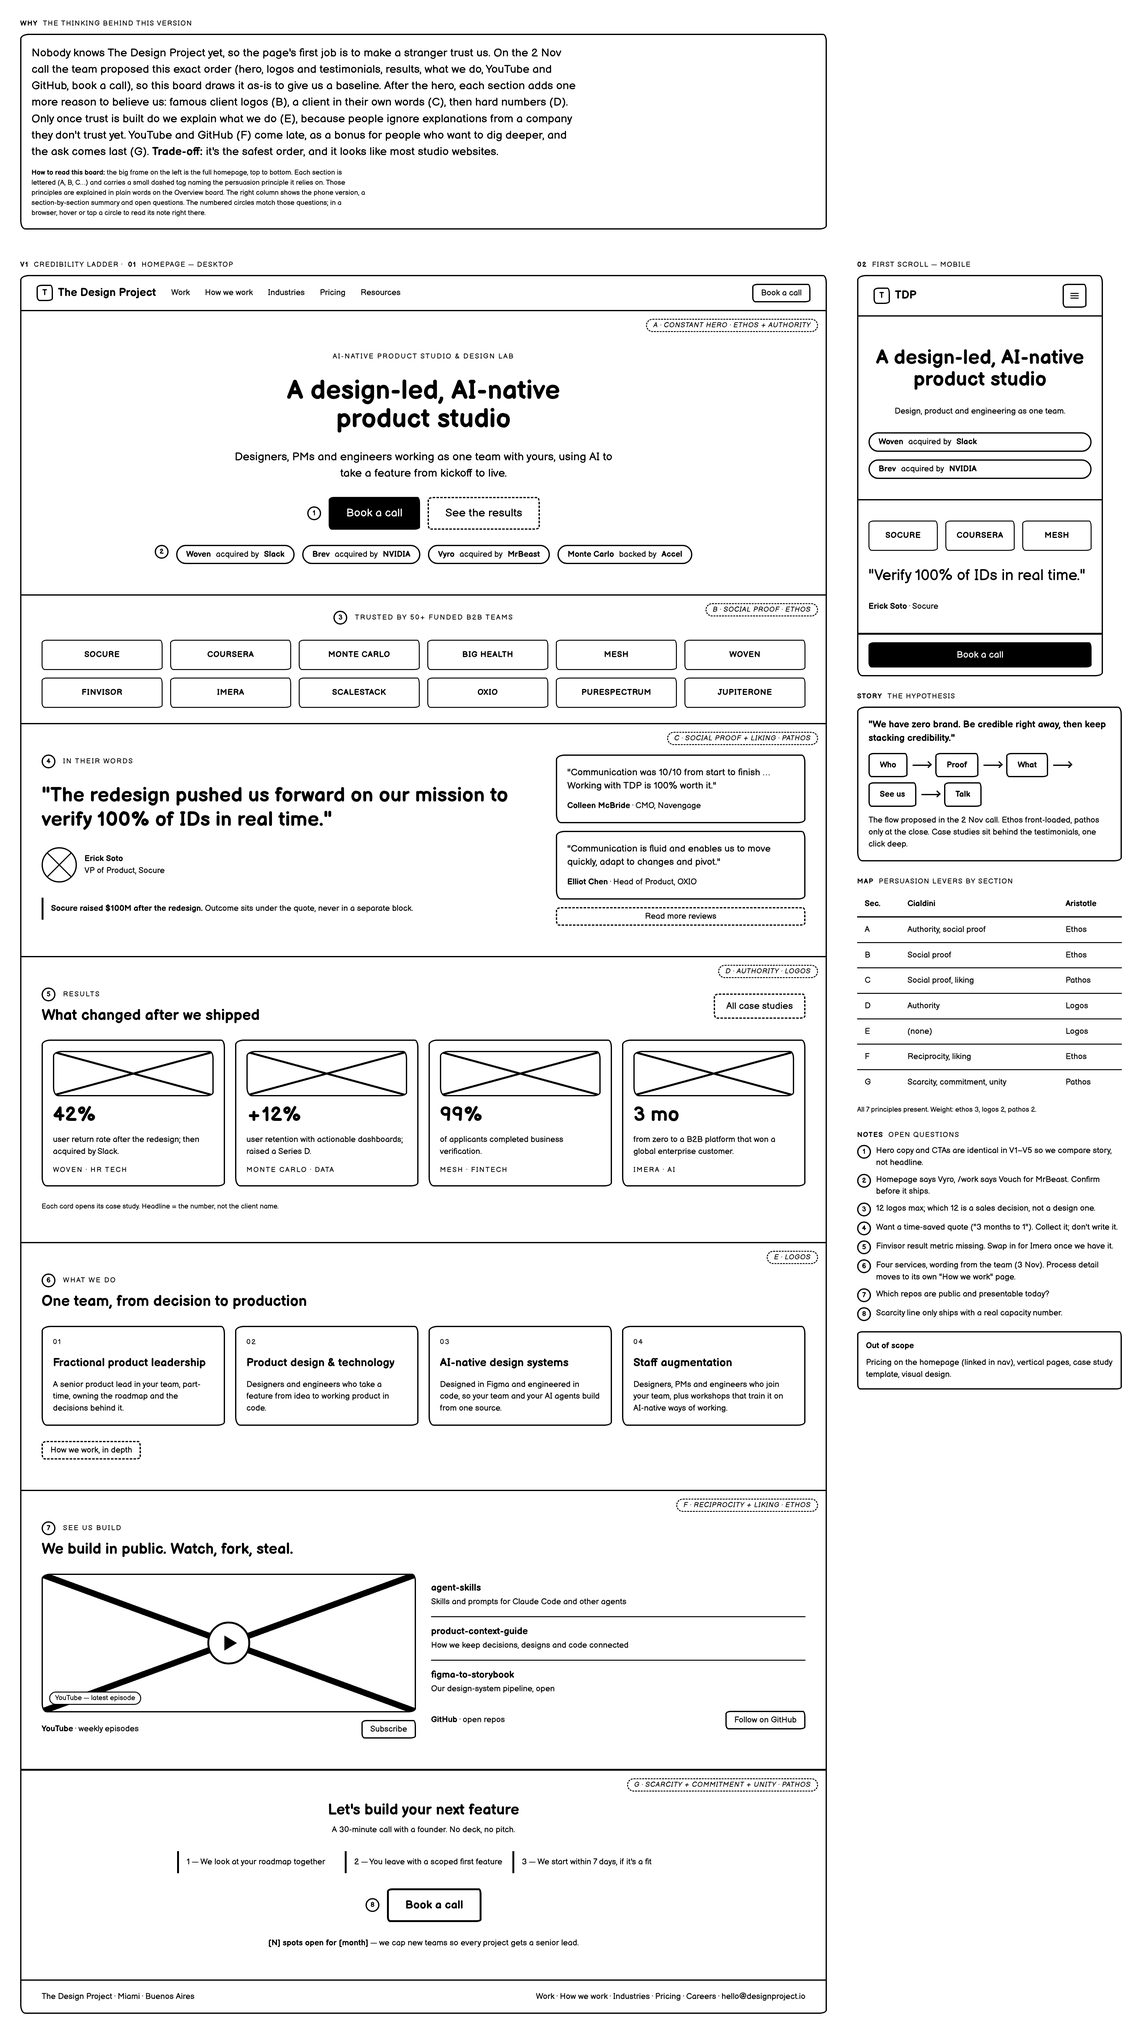
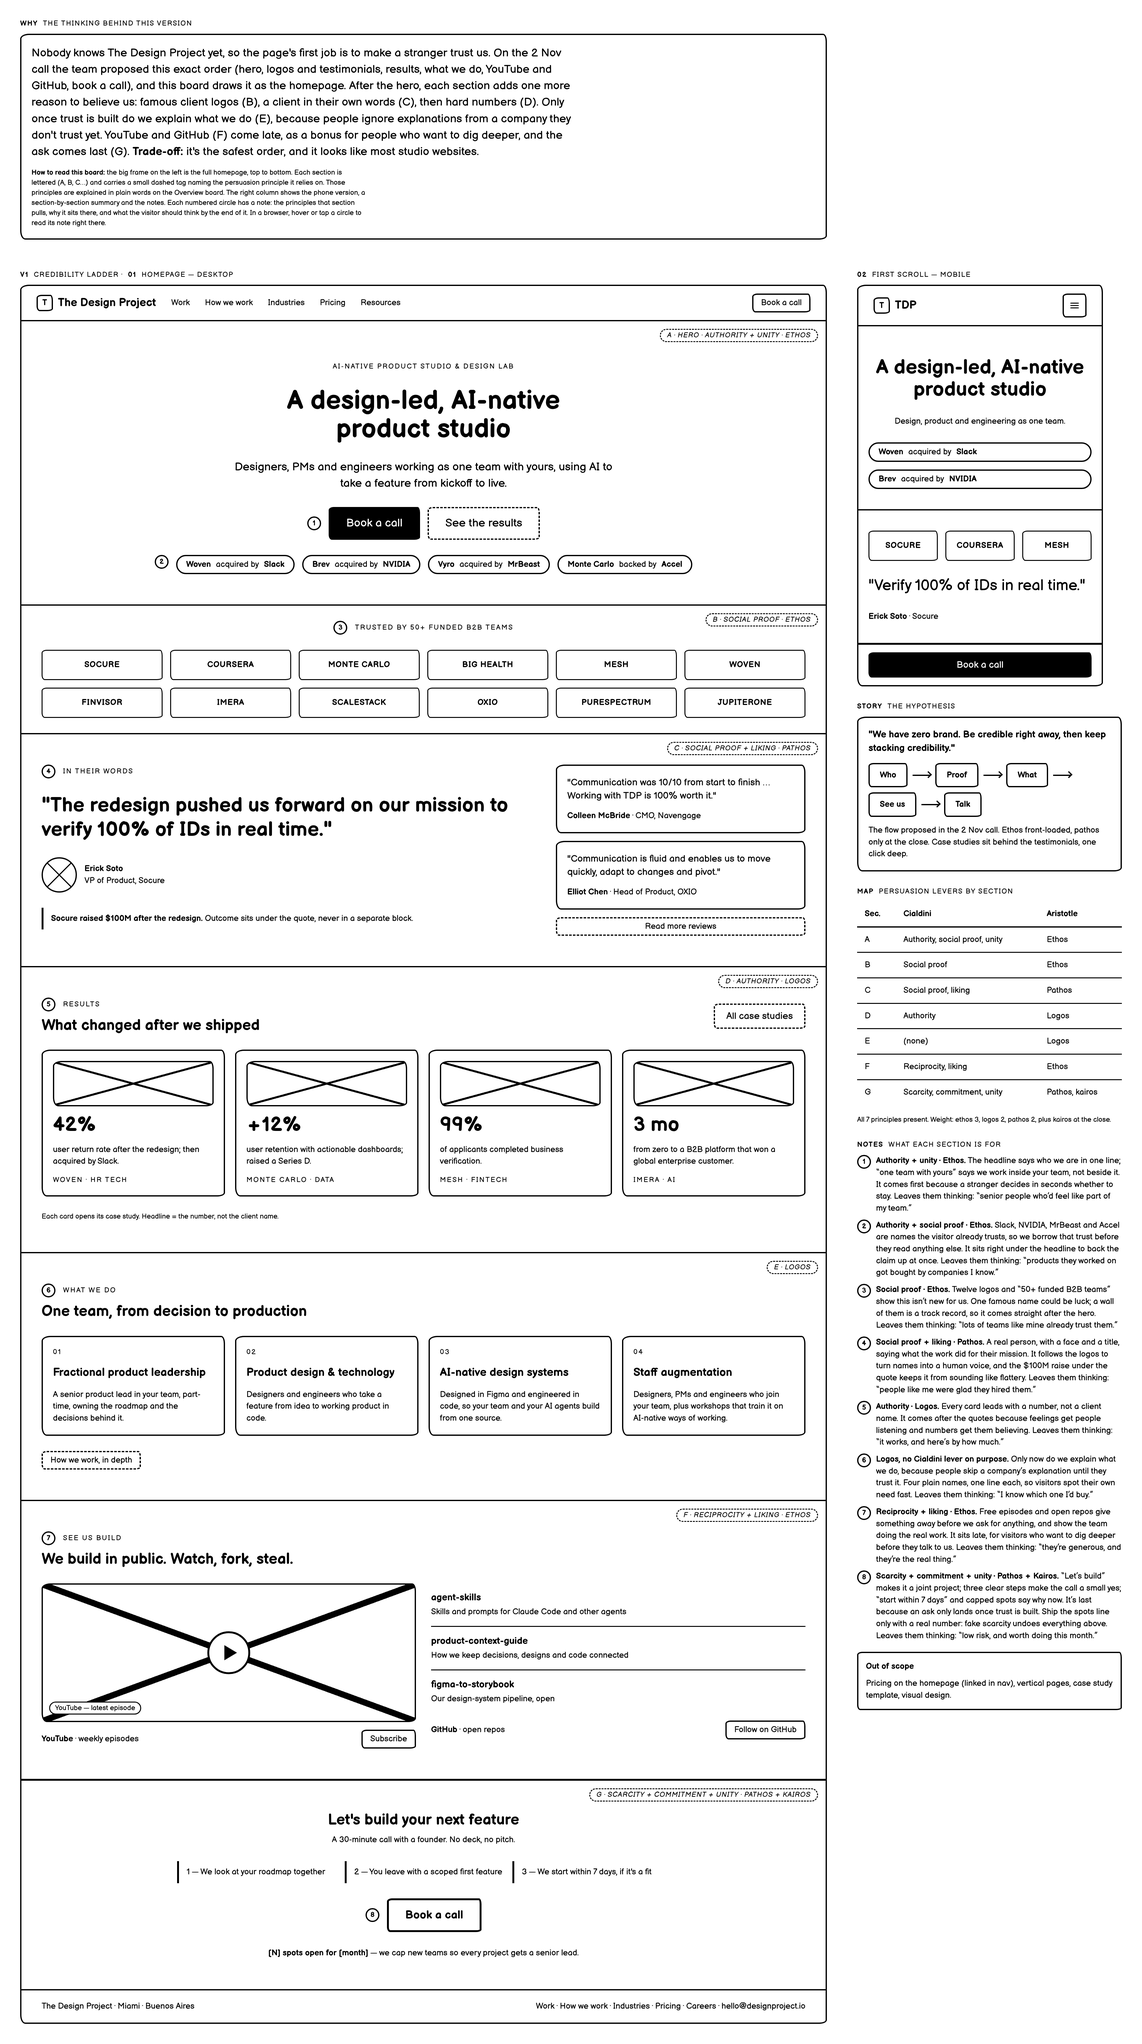
feat(wireframes): V1 notes explain what each section is for
Each numbered note now names the Cialdini principles and Aristotle modes its
section pulls, why it sits at that point in the page, and what the visitor
should think by the end of it. Drops every reference to other versions
(notes, hero tag, intro). Adds kairos to the close in the tag and map, and
widens the popover to 340px for the longer notes.

diff --git a/wireframes/designproject-io/v1-credibility-ladder.standalone.html b/wireframes/designproject-io/v1-credibility-ladder.standalone.html
@@ -545,7 +545,7 @@ small { font-size: var(--fs-xs); }
   position: fixed;
   z-index: 100;
   width: max-content;
-  max-width: min(300px, calc(100vw - 16px));
+  max-width: min(340px, calc(100vw - 16px));
   background: var(--paper);
   border: var(--stroke-bold) solid var(--ink);
   border-radius: var(--radius-sm);
@@ -725,8 +725,8 @@ small { font-size: var(--fs-xs); }
   <section class="board__intro">
     <div class="screen__caption"><b>Why</b> the thinking behind this version</div>
     <div class="card stack">
-      <p class="lead">Nobody knows The Design Project yet, so the page's first job is to make a stranger trust us. On the 2 Nov call the team proposed this exact order (hero, logos and testimonials, results, what we do, YouTube and GitHub, book a call), so this board draws it as-is to give us a baseline. After the hero, each section adds one more reason to believe us: famous client logos (B), a client in their own words (C), then hard numbers (D). Only once trust is built do we explain what we do (E), because people ignore explanations from a company they don't trust yet. YouTube and GitHub (F) come late, as a bonus for people who want to dig deeper, and the ask comes last (G). <strong>Trade-off:</strong> it's the safest order, and it looks like most studio websites.</p>
-      <p class="hint"><strong>How to read this board:</strong> the big frame on the left is the full homepage, top to bottom. Each section is lettered (A, B, C…) and carries a small dashed tag naming the persuasion principle it relies on. Those principles are explained in plain words on the Overview board. The right column shows the phone version, a section-by-section summary and open questions. The numbered circles match those questions; in a browser, hover or tap a circle to read its note right there.</p>
+      <p class="lead">Nobody knows The Design Project yet, so the page's first job is to make a stranger trust us. On the 2 Nov call the team proposed this exact order (hero, logos and testimonials, results, what we do, YouTube and GitHub, book a call), and this board draws it as the homepage. After the hero, each section adds one more reason to believe us: famous client logos (B), a client in their own words (C), then hard numbers (D). Only once trust is built do we explain what we do (E), because people ignore explanations from a company they don't trust yet. YouTube and GitHub (F) come late, as a bonus for people who want to dig deeper, and the ask comes last (G). <strong>Trade-off:</strong> it's the safest order, and it looks like most studio websites.</p>
+      <p class="hint"><strong>How to read this board:</strong> the big frame on the left is the full homepage, top to bottom. Each section is lettered (A, B, C…) and carries a small dashed tag naming the persuasion principle it relies on. Those principles are explained in plain words on the Overview board. The right column shows the phone version, a section-by-section summary and the notes. Each numbered circle has a note: the principles that section pulls, why it sits there, and what the visitor should think by the end of it. In a browser, hover or tap a circle to read its note right there.</p>
     </div>
   </section>
 
@@ -749,9 +749,9 @@ small { font-size: var(--fs-xs); }
         <a class="btn btn--sm" href="#">Book a call</a>
       </header>
 
-      <!-- A. hero (constant across all five versions) -->
+      <!-- A. hero -->
       <section class="section section--hero">
-        <span class="lens">A · Constant hero · Ethos + Authority</span>
+        <span class="lens">A · Hero · Authority + Unity · Ethos</span>
         <p class="eyebrow">AI-native product studio &amp; design lab</p>
         <h1 class="display">A design-led, AI-native product studio</h1>
         <p class="lead measure">Designers, PMs and engineers working as one team with yours, using AI to take a feature from kickoff to live.</p>
@@ -910,7 +910,7 @@ small { font-size: var(--fs-xs); }
 
       <!-- G. close -->
       <section class="section section--loud section--center">
-        <span class="lens">G · Scarcity + Commitment + Unity · Pathos</span>
+        <span class="lens">G · Scarcity + Commitment + Unity · Pathos + Kairos</span>
         <div class="section__head">
           <h2>Let's build your next feature</h2>
           <p class="muted measure">A 30-minute call with a founder. No deck, no pitch.</p>
@@ -981,29 +981,29 @@ small { font-size: var(--fs-xs); }
       <table class="table">
         <thead><tr><th>Sec.</th><th>Cialdini</th><th>Aristotle</th></tr></thead>
         <tbody>
-          <tr><td>A</td><td>Authority, social proof</td><td>Ethos</td></tr>
+          <tr><td>A</td><td>Authority, social proof, unity</td><td>Ethos</td></tr>
           <tr><td>B</td><td>Social proof</td><td>Ethos</td></tr>
           <tr><td>C</td><td>Social proof, liking</td><td>Pathos</td></tr>
           <tr><td>D</td><td>Authority</td><td>Logos</td></tr>
           <tr><td>E</td><td>(none)</td><td>Logos</td></tr>
           <tr><td>F</td><td>Reciprocity, liking</td><td>Ethos</td></tr>
-          <tr><td>G</td><td>Scarcity, commitment, unity</td><td>Pathos</td></tr>
+          <tr><td>G</td><td>Scarcity, commitment, unity</td><td>Pathos, kairos</td></tr>
         </tbody>
       </table>
-      <p class="hint mt-4">All 7 principles present. Weight: ethos 3, logos 2, pathos 2.</p>
+      <p class="hint mt-4">All 7 principles present. Weight: ethos 3, logos 2, pathos 2, plus kairos at the close.</p>
     </section>
 
     <section>
-      <div class="screen__caption"><b>Notes</b> open questions</div>
+      <div class="screen__caption"><b>Notes</b> what each section is for</div>
       <ol class="notes">
-        <li><span class="pin">1</span><span>Hero copy and CTAs are identical in V1–V5 so we compare story, not headline.</span></li>
-        <li><span class="pin">2</span><span>Homepage says Vyro, /work says Vouch for MrBeast. Confirm before it ships.</span></li>
-        <li><span class="pin">3</span><span>12 logos max; which 12 is a sales decision, not a design one.</span></li>
-        <li><span class="pin">4</span><span>Want a time-saved quote ("3 months to 1"). Collect it; don't write it.</span></li>
-        <li><span class="pin">5</span><span>Finvisor result metric missing. Swap in for Imera once we have it.</span></li>
-        <li><span class="pin">6</span><span>Four services, wording from the team (3 Nov). Process detail moves to its own "How we work" page.</span></li>
-        <li><span class="pin">7</span><span>Which repos are public and presentable today?</span></li>
-        <li><span class="pin">8</span><span>Scarcity line only ships with a real capacity number.</span></li>
+        <li><span class="pin">1</span><span><strong>Authority + unity · Ethos.</strong> The headline says who we are in one line; “one team with yours” says we work inside your team, not beside it. It comes first because a stranger decides in seconds whether to stay. Leaves them thinking: “senior people who’d feel like part of my team.”</span></li>
+        <li><span class="pin">2</span><span><strong>Authority + social proof · Ethos.</strong> Slack, NVIDIA, MrBeast and Accel are names the visitor already trusts, so we borrow that trust before they read anything else. It sits right under the headline to back the claim up at once. Leaves them thinking: “products they worked on got bought by companies I know.”</span></li>
+        <li><span class="pin">3</span><span><strong>Social proof · Ethos.</strong> Twelve logos and “50+ funded B2B teams” show this isn’t new for us. One famous name could be luck; a wall of them is a track record, so it comes straight after the hero. Leaves them thinking: “lots of teams like mine already trust them.”</span></li>
+        <li><span class="pin">4</span><span><strong>Social proof + liking · Pathos.</strong> A real person, with a face and a title, saying what the work did for their mission. It follows the logos to turn names into a human voice, and the $100M raise under the quote keeps it from sounding like flattery. Leaves them thinking: “people like me were glad they hired them.”</span></li>
+        <li><span class="pin">5</span><span><strong>Authority · Logos.</strong> Every card leads with a number, not a client name. It comes after the quotes because feelings get people listening and numbers get them believing. Leaves them thinking: “it works, and here’s by how much.”</span></li>
+        <li><span class="pin">6</span><span><strong>Logos, no Cialdini lever on purpose.</strong> Only now do we explain what we do, because people skip a company’s explanation until they trust it. Four plain names, one line each, so visitors spot their own need fast. Leaves them thinking: “I know which one I’d buy.”</span></li>
+        <li><span class="pin">7</span><span><strong>Reciprocity + liking · Ethos.</strong> Free episodes and open repos give something away before we ask for anything, and show the team doing the real work. It sits late, for visitors who want to dig deeper before they talk to us. Leaves them thinking: “they’re generous, and they’re the real thing.”</span></li>
+        <li><span class="pin">8</span><span><strong>Scarcity + commitment + unity · Pathos + Kairos.</strong> “Let’s build” makes it a joint project; three clear steps make the call a small yes; “start within 7 days” and capped spots say why now. It’s last because an ask only lands once trust is built. Ship the spots line only with a real number: fake scarcity undoes everything above. Leaves them thinking: “low risk, and worth doing this month.”</span></li>
       </ol>
       <div class="todo mt-4">
         <div class="todo__head">Out of scope</div>

diff --git a/wireframes/designproject-io/v1-credibility-ladder.html b/wireframes/designproject-io/v1-credibility-ladder.html
@@ -14,8 +14,8 @@
   <section class="board__intro">
     <div class="screen__caption"><b>Why</b> the thinking behind this version</div>
     <div class="card stack">
-      <p class="lead">Nobody knows The Design Project yet, so the page's first job is to make a stranger trust us. On the 2 Nov call the team proposed this exact order (hero, logos and testimonials, results, what we do, YouTube and GitHub, book a call), so this board draws it as-is to give us a baseline. After the hero, each section adds one more reason to believe us: famous client logos (B), a client in their own words (C), then hard numbers (D). Only once trust is built do we explain what we do (E), because people ignore explanations from a company they don't trust yet. YouTube and GitHub (F) come late, as a bonus for people who want to dig deeper, and the ask comes last (G). <strong>Trade-off:</strong> it's the safest order, and it looks like most studio websites.</p>
-      <p class="hint"><strong>How to read this board:</strong> the big frame on the left is the full homepage, top to bottom. Each section is lettered (A, B, C…) and carries a small dashed tag naming the persuasion principle it relies on. Those principles are explained in plain words on the Overview board. The right column shows the phone version, a section-by-section summary and open questions. The numbered circles match those questions; in a browser, hover or tap a circle to read its note right there.</p>
+      <p class="lead">Nobody knows The Design Project yet, so the page's first job is to make a stranger trust us. On the 2 Nov call the team proposed this exact order (hero, logos and testimonials, results, what we do, YouTube and GitHub, book a call), and this board draws it as the homepage. After the hero, each section adds one more reason to believe us: famous client logos (B), a client in their own words (C), then hard numbers (D). Only once trust is built do we explain what we do (E), because people ignore explanations from a company they don't trust yet. YouTube and GitHub (F) come late, as a bonus for people who want to dig deeper, and the ask comes last (G). <strong>Trade-off:</strong> it's the safest order, and it looks like most studio websites.</p>
+      <p class="hint"><strong>How to read this board:</strong> the big frame on the left is the full homepage, top to bottom. Each section is lettered (A, B, C…) and carries a small dashed tag naming the persuasion principle it relies on. Those principles are explained in plain words on the Overview board. The right column shows the phone version, a section-by-section summary and the notes. Each numbered circle has a note: the principles that section pulls, why it sits there, and what the visitor should think by the end of it. In a browser, hover or tap a circle to read its note right there.</p>
     </div>
   </section>
 
@@ -38,9 +38,9 @@
         <a class="btn btn--sm" href="#">Book a call</a>
       </header>
 
-      <!-- A. hero (constant across all five versions) -->
+      <!-- A. hero -->
       <section class="section section--hero">
-        <span class="lens">A · Constant hero · Ethos + Authority</span>
+        <span class="lens">A · Hero · Authority + Unity · Ethos</span>
         <p class="eyebrow">AI-native product studio &amp; design lab</p>
         <h1 class="display">A design-led, AI-native product studio</h1>
         <p class="lead measure">Designers, PMs and engineers working as one team with yours, using AI to take a feature from kickoff to live.</p>
@@ -199,7 +199,7 @@
 
       <!-- G. close -->
       <section class="section section--loud section--center">
-        <span class="lens">G · Scarcity + Commitment + Unity · Pathos</span>
+        <span class="lens">G · Scarcity + Commitment + Unity · Pathos + Kairos</span>
         <div class="section__head">
           <h2>Let's build your next feature</h2>
           <p class="muted measure">A 30-minute call with a founder. No deck, no pitch.</p>
@@ -270,29 +270,29 @@
       <table class="table">
         <thead><tr><th>Sec.</th><th>Cialdini</th><th>Aristotle</th></tr></thead>
         <tbody>
-          <tr><td>A</td><td>Authority, social proof</td><td>Ethos</td></tr>
+          <tr><td>A</td><td>Authority, social proof, unity</td><td>Ethos</td></tr>
           <tr><td>B</td><td>Social proof</td><td>Ethos</td></tr>
           <tr><td>C</td><td>Social proof, liking</td><td>Pathos</td></tr>
           <tr><td>D</td><td>Authority</td><td>Logos</td></tr>
           <tr><td>E</td><td>(none)</td><td>Logos</td></tr>
           <tr><td>F</td><td>Reciprocity, liking</td><td>Ethos</td></tr>
-          <tr><td>G</td><td>Scarcity, commitment, unity</td><td>Pathos</td></tr>
+          <tr><td>G</td><td>Scarcity, commitment, unity</td><td>Pathos, kairos</td></tr>
         </tbody>
       </table>
-      <p class="hint mt-4">All 7 principles present. Weight: ethos 3, logos 2, pathos 2.</p>
+      <p class="hint mt-4">All 7 principles present. Weight: ethos 3, logos 2, pathos 2, plus kairos at the close.</p>
     </section>
 
     <section>
-      <div class="screen__caption"><b>Notes</b> open questions</div>
+      <div class="screen__caption"><b>Notes</b> what each section is for</div>
       <ol class="notes">
-        <li><span class="pin">1</span><span>Hero copy and CTAs are identical in V1–V5 so we compare story, not headline.</span></li>
-        <li><span class="pin">2</span><span>Homepage says Vyro, /work says Vouch for MrBeast. Confirm before it ships.</span></li>
-        <li><span class="pin">3</span><span>12 logos max; which 12 is a sales decision, not a design one.</span></li>
-        <li><span class="pin">4</span><span>Want a time-saved quote ("3 months to 1"). Collect it; don't write it.</span></li>
-        <li><span class="pin">5</span><span>Finvisor result metric missing. Swap in for Imera once we have it.</span></li>
-        <li><span class="pin">6</span><span>Four services, wording from the team (3 Nov). Process detail moves to its own "How we work" page.</span></li>
-        <li><span class="pin">7</span><span>Which repos are public and presentable today?</span></li>
-        <li><span class="pin">8</span><span>Scarcity line only ships with a real capacity number.</span></li>
+        <li><span class="pin">1</span><span><strong>Authority + unity · Ethos.</strong> The headline says who we are in one line; “one team with yours” says we work inside your team, not beside it. It comes first because a stranger decides in seconds whether to stay. Leaves them thinking: “senior people who’d feel like part of my team.”</span></li>
+        <li><span class="pin">2</span><span><strong>Authority + social proof · Ethos.</strong> Slack, NVIDIA, MrBeast and Accel are names the visitor already trusts, so we borrow that trust before they read anything else. It sits right under the headline to back the claim up at once. Leaves them thinking: “products they worked on got bought by companies I know.”</span></li>
+        <li><span class="pin">3</span><span><strong>Social proof · Ethos.</strong> Twelve logos and “50+ funded B2B teams” show this isn’t new for us. One famous name could be luck; a wall of them is a track record, so it comes straight after the hero. Leaves them thinking: “lots of teams like mine already trust them.”</span></li>
+        <li><span class="pin">4</span><span><strong>Social proof + liking · Pathos.</strong> A real person, with a face and a title, saying what the work did for their mission. It follows the logos to turn names into a human voice, and the $100M raise under the quote keeps it from sounding like flattery. Leaves them thinking: “people like me were glad they hired them.”</span></li>
+        <li><span class="pin">5</span><span><strong>Authority · Logos.</strong> Every card leads with a number, not a client name. It comes after the quotes because feelings get people listening and numbers get them believing. Leaves them thinking: “it works, and here’s by how much.”</span></li>
+        <li><span class="pin">6</span><span><strong>Logos, no Cialdini lever on purpose.</strong> Only now do we explain what we do, because people skip a company’s explanation until they trust it. Four plain names, one line each, so visitors spot their own need fast. Leaves them thinking: “I know which one I’d buy.”</span></li>
+        <li><span class="pin">7</span><span><strong>Reciprocity + liking · Ethos.</strong> Free episodes and open repos give something away before we ask for anything, and show the team doing the real work. It sits late, for visitors who want to dig deeper before they talk to us. Leaves them thinking: “they’re generous, and they’re the real thing.”</span></li>
+        <li><span class="pin">8</span><span><strong>Scarcity + commitment + unity · Pathos + Kairos.</strong> “Let’s build” makes it a joint project; three clear steps make the call a small yes; “start within 7 days” and capped spots say why now. It’s last because an ask only lands once trust is built. Ship the spots line only with a real number: fake scarcity undoes everything above. Leaves them thinking: “low risk, and worth doing this month.”</span></li>
       </ol>
       <div class="todo mt-4">
         <div class="todo__head">Out of scope</div>

diff --git a/.agents/skills/create-wireframe/assets/wireframe.css b/.agents/skills/create-wireframe/assets/wireframe.css
@@ -538,7 +538,7 @@ small { font-size: var(--fs-xs); }
   position: fixed;
   z-index: 100;
   width: max-content;
-  max-width: min(300px, calc(100vw - 16px));
+  max-width: min(340px, calc(100vw - 16px));
   background: var(--paper);
   border: var(--stroke-bold) solid var(--ink);
   border-radius: var(--radius-sm);
